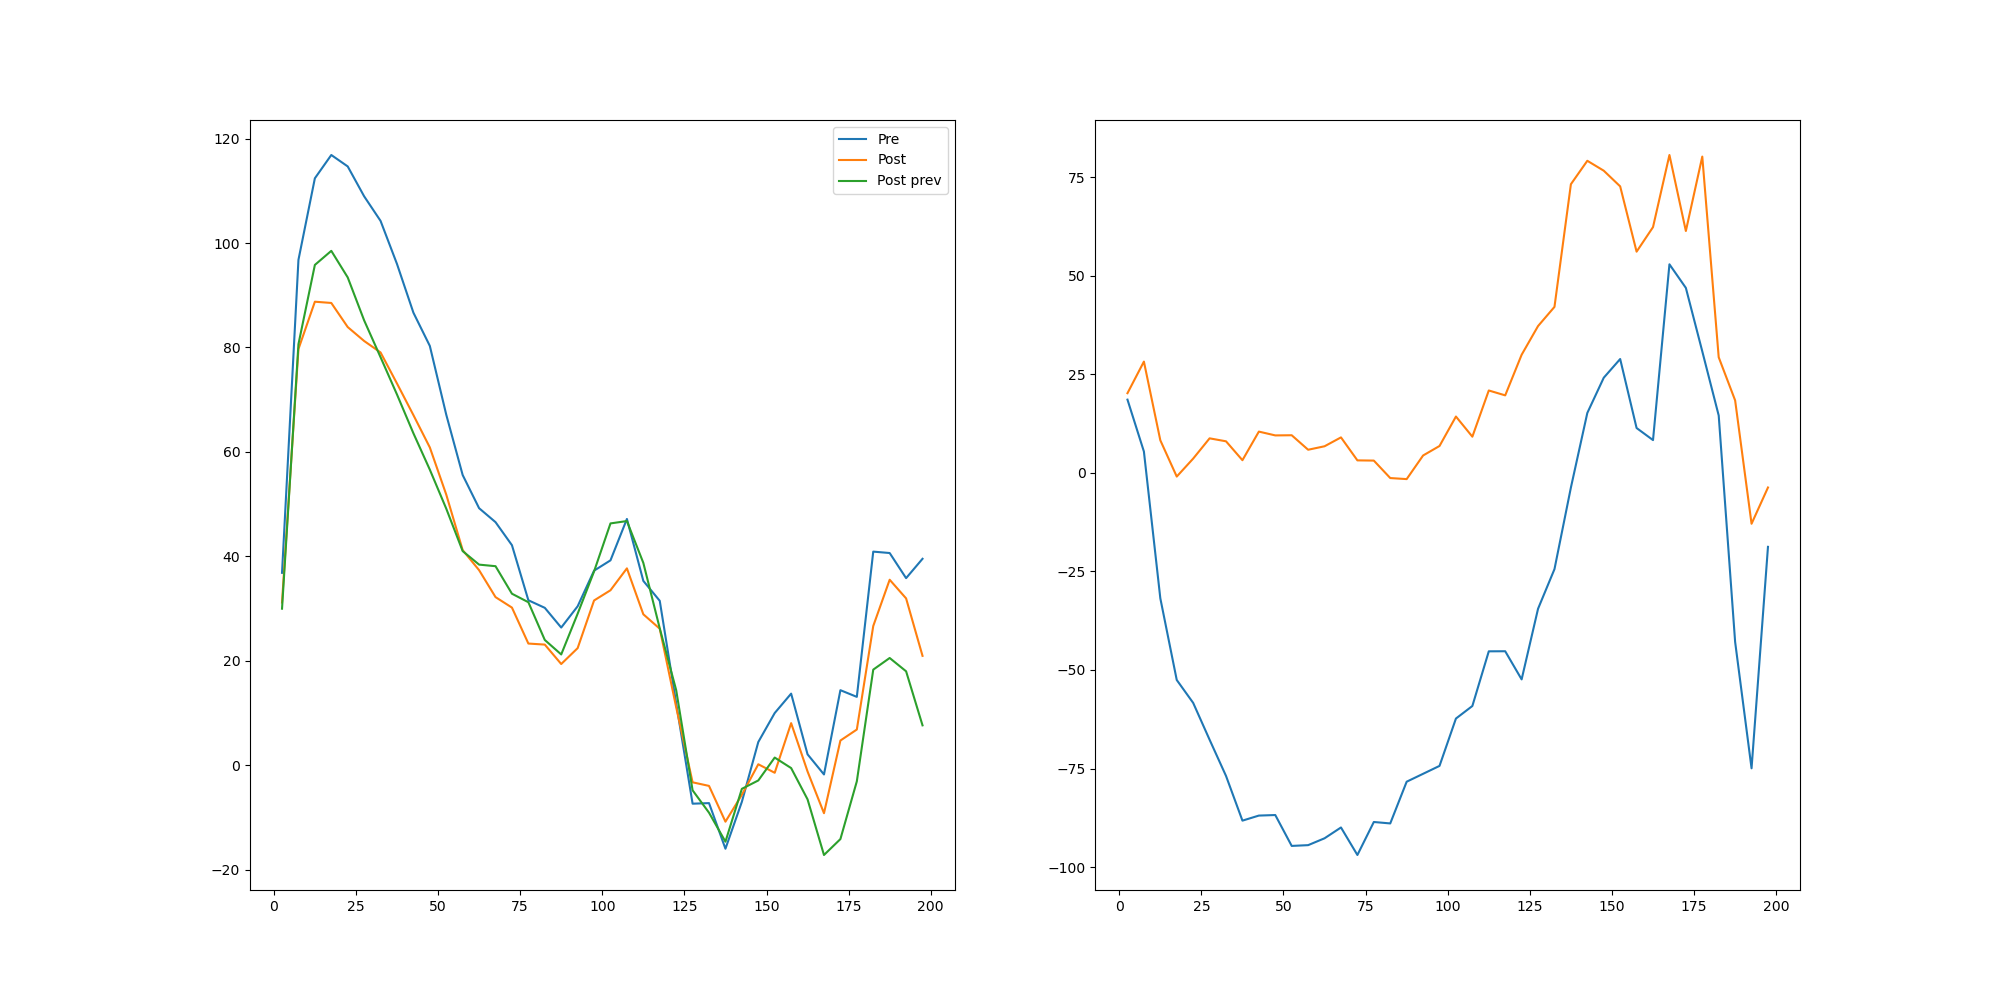
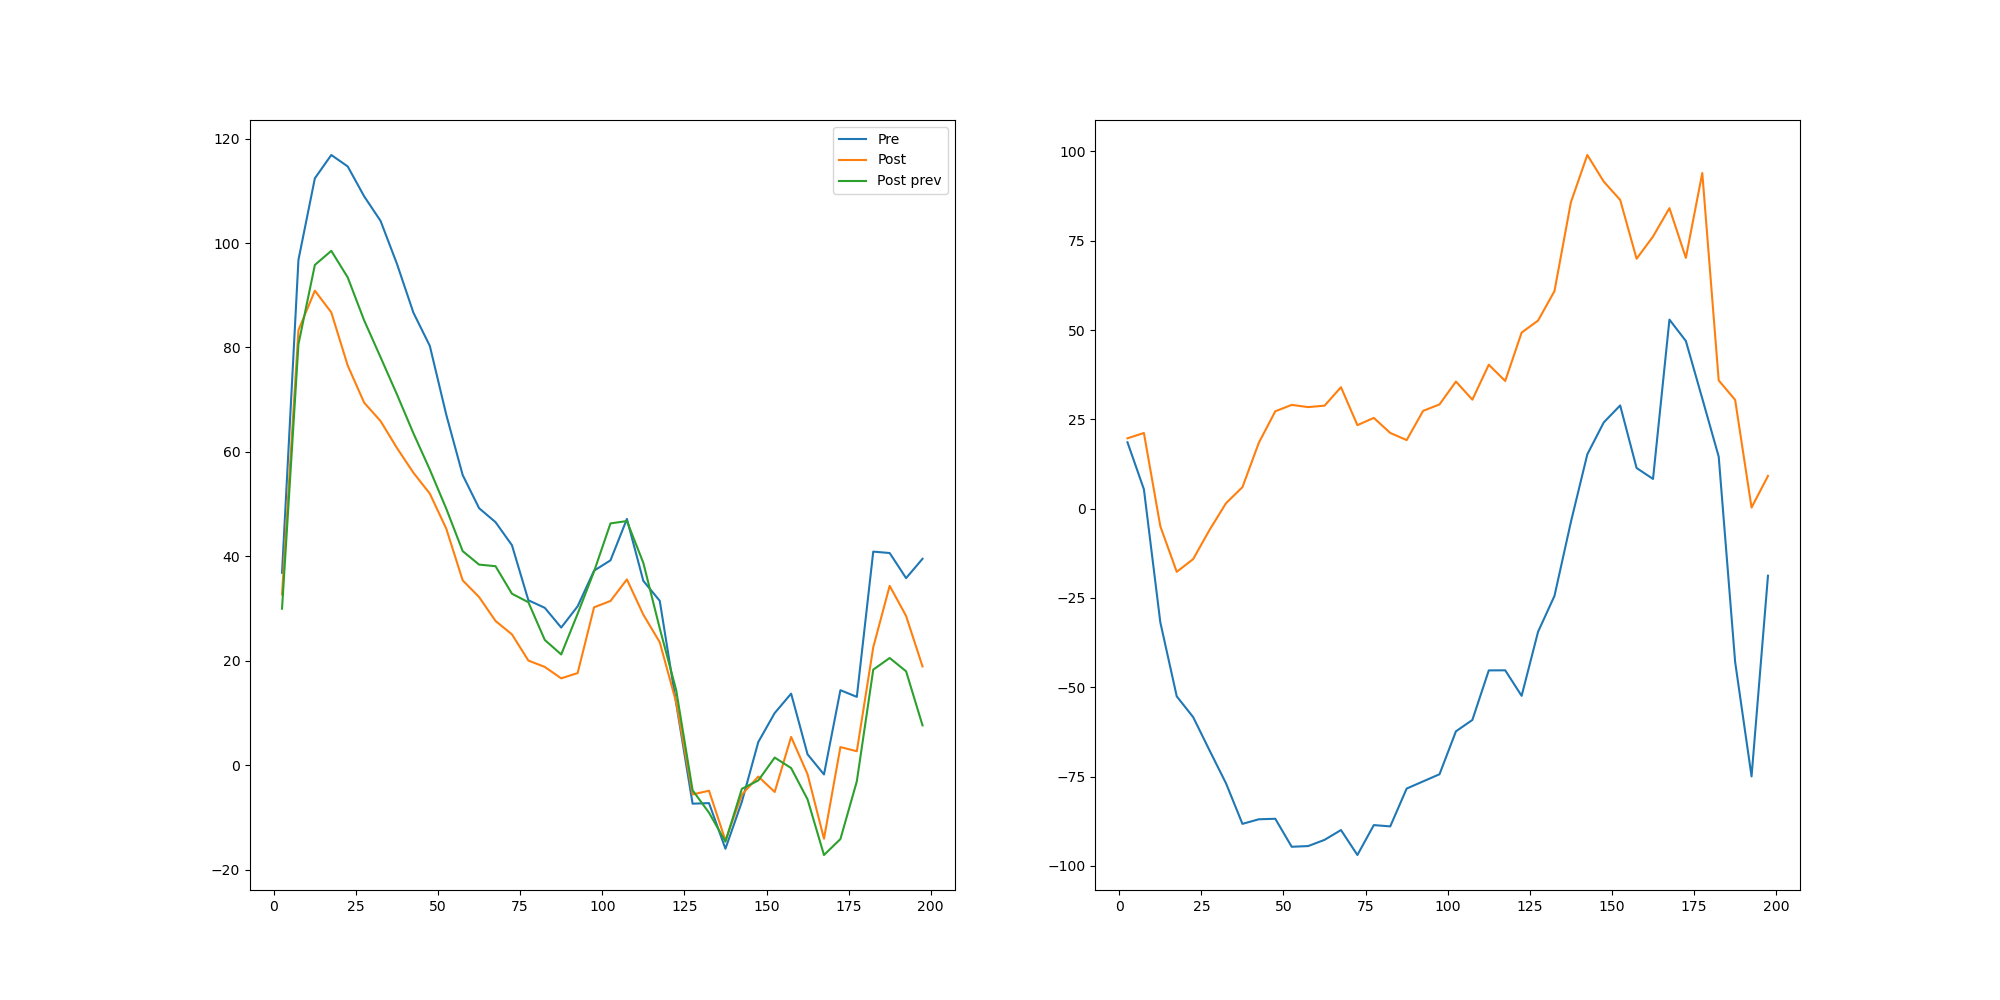
Updated recon params to the same ones found in recon Patchy boxes

diff --git a/parameters/params_lc.py b/parameters/params_lc.py
@@ -22,10 +22,10 @@ omega_m = 0.307115  # used for reconstruction and to convert redshifts to distan
 do_recon = True     # if False, no reconstruction is performed and other recon options are ignored
 nbins = 512     # the number of grid cells per side of the box
 padding = 200.  # for survey data, the extra 'padding' for the cubic box, in Mpc/h
-smooth = 10.    # smoothing scale in Mpc/h
-bias = 1.92        # the linear galaxy/tracer bias value
-f = 0.743         # the linear growth rate at the mean redshift
-niter = 3       # number of iterations in the FFT reconstruction method, 3 is sufficient
+smooth = 15.    # smoothing scale in Mpc/h
+bias = 1.4        # the linear galaxy/tracer bias value
+f = 0.82        # the linear growth rate at the mean redshift
+niter = 3       # number of iterations in the FFT reconstruction method, 3 is sufficient with z=0.5 f=0.754
 # NOTE: for box data, reconstruction assumes plane-parallel approximation with single l-o-s along the box z-axis!!
 # ========================================= #
 
